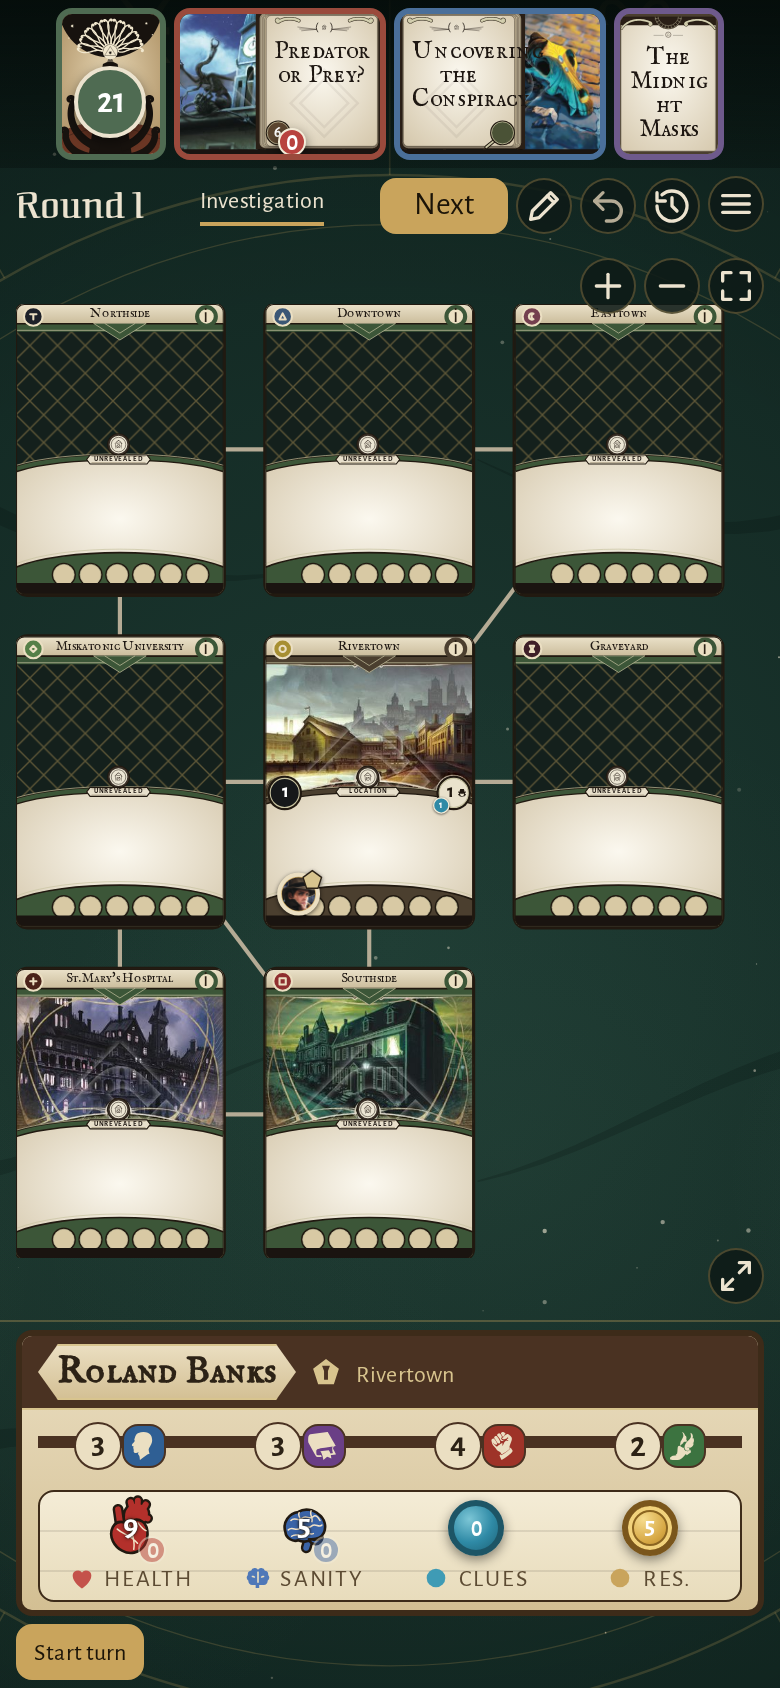
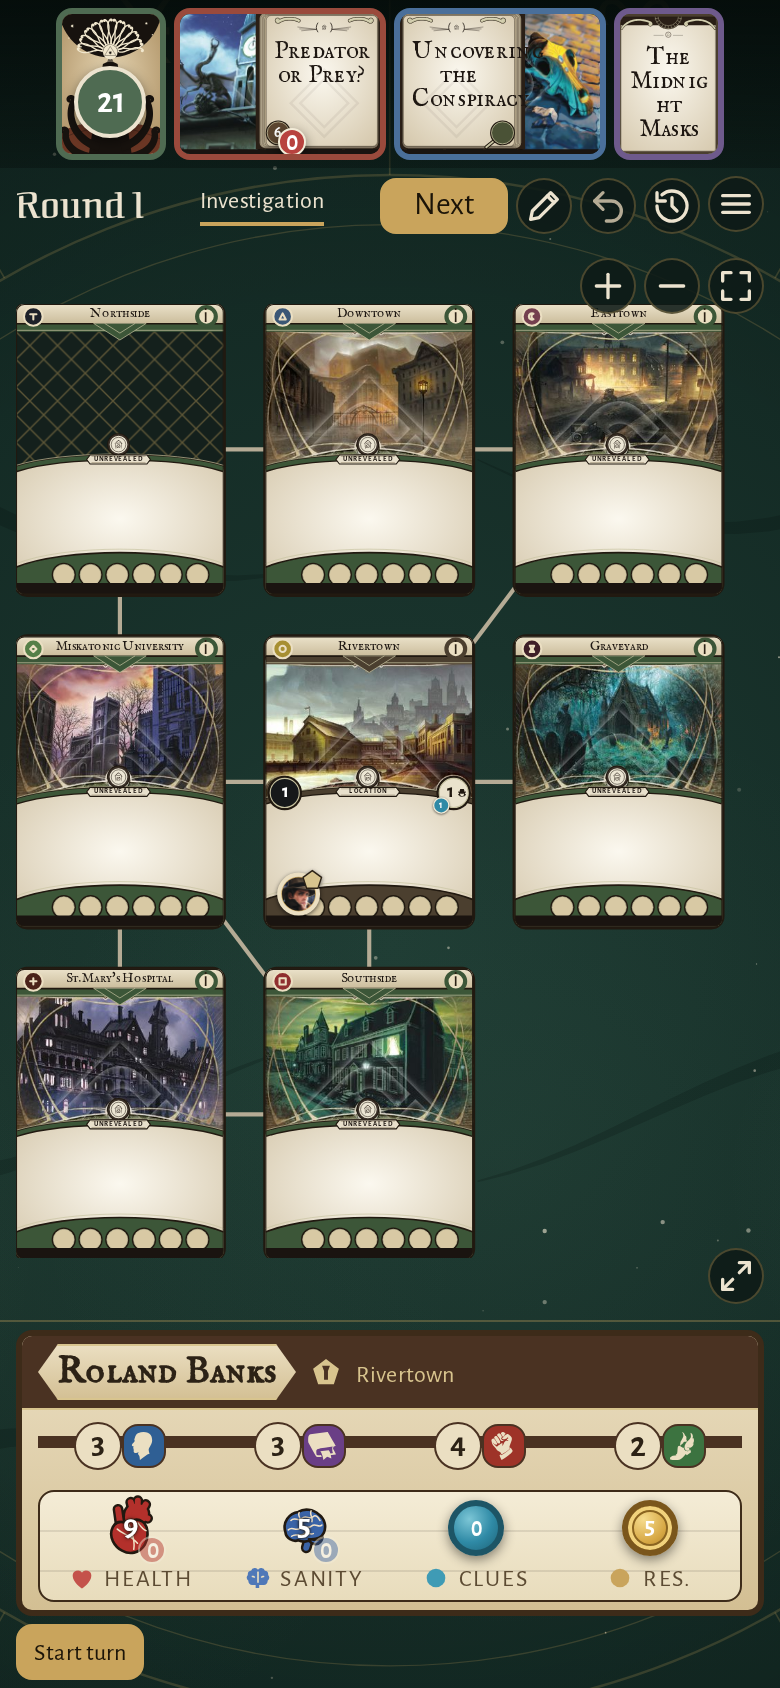
Deploy preview for PR 830 🛫

diff --git a/pr-preview/pr-830/screencasts/player.html b/pr-preview/pr-830/screencasts/player.html
@@ -67,7 +67,7 @@
       const SPEEDS = [0.125, 0.25, 0.5, 1];
       // Filled in by `playerPage` (screencasts.ts) with this push's flows. The page plays only
       // a flow named there, so a crafted link can never make it load or link another URL.
-      const RECORDED = {"version":"d8f17a8","flows":{}};
+      const RECORDED = {"version":"7717e64","flows":{}};
       const params = new URLSearchParams(location.search);
       const flow = Object.keys(RECORDED.flows).find((slug) => slug === params.get('flow'));
       const requested = Number(params.get('speed'));

diff --git a/pr-preview/pr-830/screencasts/section.md b/pr-preview/pr-830/screencasts/section.md
@@ -1,6 +1,6 @@
 <!-- screencasts:start -->
 
-_Recorded from d8f17a8 by the PR preview workflow; updated on every push that changes `apps/web`._
+_Recorded from 7717e64 by the PR preview workflow; updated on every push that changes `apps/web`._
 
 ## Screenshots
 
@@ -8,14 +8,14 @@ _Recorded from d8f17a8 by the PR preview workflow; updated on every push that ch
 
 <table>
 <tr><th>Desktop</th><th>Phone</th></tr>
-<tr><td><img src="https://raw.githubusercontent.com/macandy13/arkham-companion/gh-pages/pr-preview/pr-830/screencasts/arkham-in-the-midnight-masks-easttown-the-graveyard-and-northside-with-their-new-symbols-desktop.png?v=d8f17a8" alt="Desktop" width="560"></td><td><img src="https://raw.githubusercontent.com/macandy13/arkham-companion/gh-pages/pr-preview/pr-830/screencasts/arkham-in-the-midnight-masks-easttown-the-graveyard-and-northside-with-their-new-symbols-phone.png?v=d8f17a8" alt="Phone" width="180"></td></tr>
+<tr><td><img src="https://raw.githubusercontent.com/macandy13/arkham-companion/gh-pages/pr-preview/pr-830/screencasts/arkham-in-the-midnight-masks-easttown-the-graveyard-and-northside-with-their-new-symbols-desktop.png?v=7717e64" alt="Desktop" width="560"></td><td><img src="https://raw.githubusercontent.com/macandy13/arkham-companion/gh-pages/pr-preview/pr-830/screencasts/arkham-in-the-midnight-masks-easttown-the-graveyard-and-northside-with-their-new-symbols-phone.png?v=7717e64" alt="Phone" width="180"></td></tr>
 </table>
 
 ### the Tangled Thicket revealed with its double slash, the other Arkham Woods still showing their square
 
 <table>
 <tr><th>Desktop</th><th>Phone</th></tr>
-<tr><td><img src="https://raw.githubusercontent.com/macandy13/arkham-companion/gh-pages/pr-preview/pr-830/screencasts/the-tangled-thicket-revealed-with-its-double-slash-the-other-arkham-woods-still-showing-their-square-desktop.png?v=d8f17a8" alt="Desktop" width="560"></td><td><img src="https://raw.githubusercontent.com/macandy13/arkham-companion/gh-pages/pr-preview/pr-830/screencasts/the-tangled-thicket-revealed-with-its-double-slash-the-other-arkham-woods-still-showing-their-square-phone.png?v=d8f17a8" alt="Phone" width="180"></td></tr>
+<tr><td><img src="https://raw.githubusercontent.com/macandy13/arkham-companion/gh-pages/pr-preview/pr-830/screencasts/the-tangled-thicket-revealed-with-its-double-slash-the-other-arkham-woods-still-showing-their-square-desktop.png?v=7717e64" alt="Desktop" width="560"></td><td><img src="https://raw.githubusercontent.com/macandy13/arkham-companion/gh-pages/pr-preview/pr-830/screencasts/the-tangled-thicket-revealed-with-its-double-slash-the-other-arkham-woods-still-showing-their-square-phone.png?v=7717e64" alt="Phone" width="180"></td></tr>
 </table>
 
 <!-- screencasts:end -->
